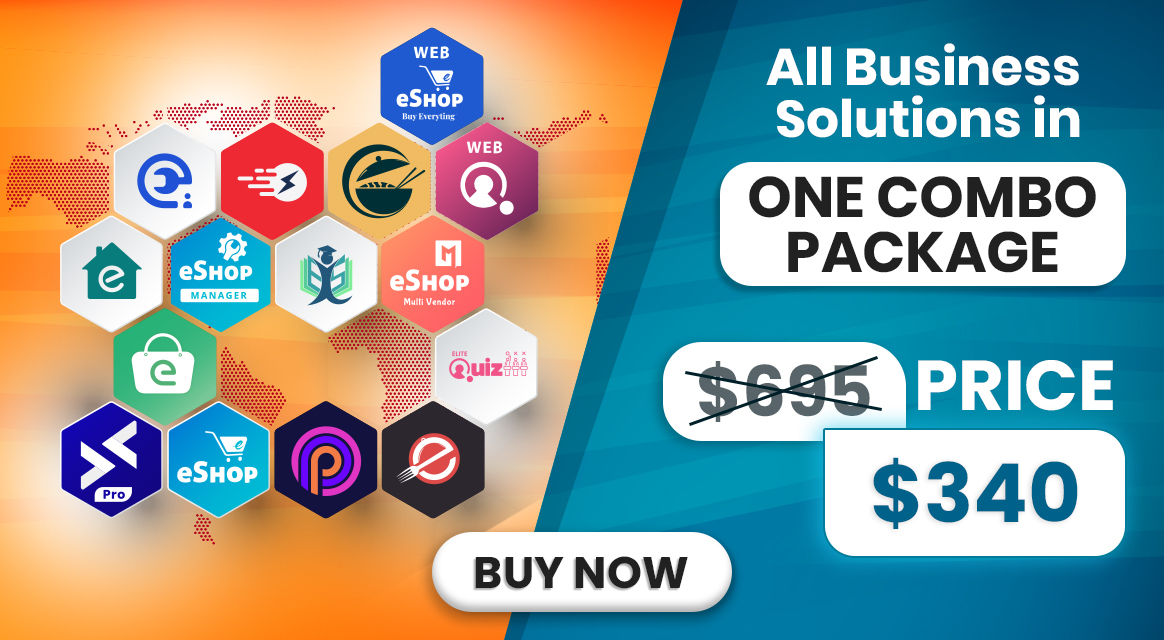
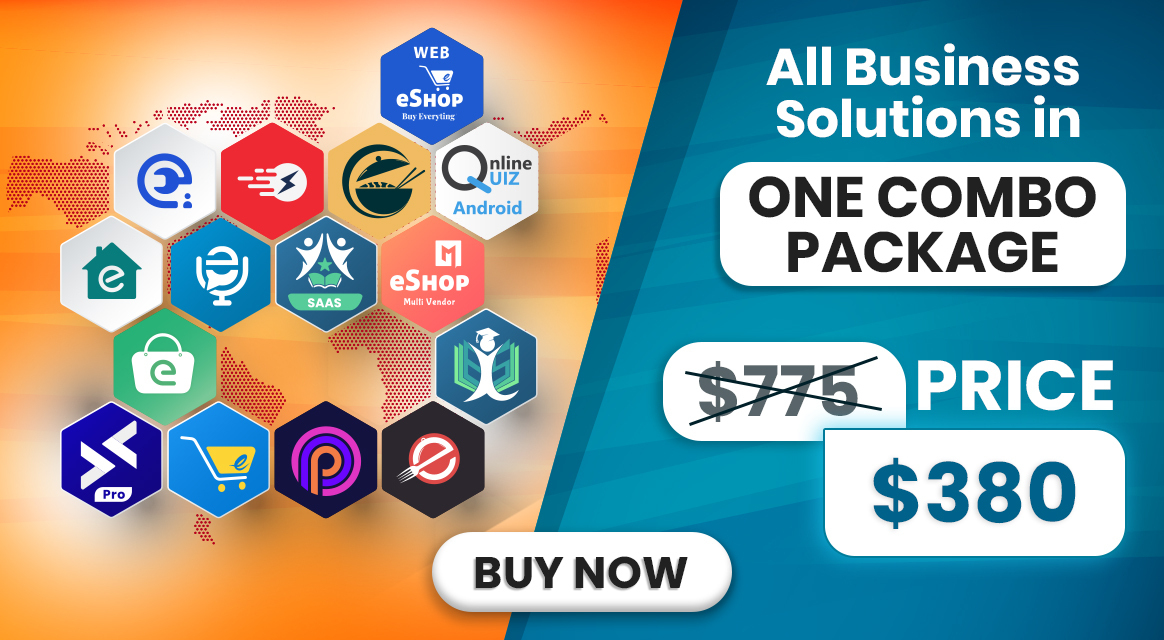
elite remove from sale

diff --git a/src/Components/Bundles.jsx b/src/Components/Bundles.jsx
@@ -122,7 +122,8 @@ const Bundles = () => {
             cutPrice: "$158",
             link: "https://1.envato.market/OryZ1P",
             backColor: "#BBE0CA",
-            height: '108px'
+            // height: '108px'
+            height: '160px'
         },
         // {
         //     id: 3,
@@ -193,7 +194,8 @@ const Bundles = () => {
             cutPrice: "$118",
             link: "https://1.envato.market/jrJ4nZ",
             backColor: "#FFE8B7",
-            height: '108px'
+            // height: '108px'
+            height: '160px'
         },
         // {
         //     id: 10,
@@ -218,30 +220,30 @@ const Bundles = () => {
         //     backColor: "#FFDDCA",
         //     height: '108px'
         // },
-        {
-            id: 11,
-            icon1: elite1,
-            icon2: elite2,
-            icon3: "",
-            icon4: "",
-            webImg: eliteWeb,
-            appImg: eliteApp,
-            title: "Elite Quiz Bundle",
-            p1Name: "Elite Quiz app",
-            p1Price: "$59",
-            p2Name: "Elite Quiz web",
-            p2Price: "$29",
-            p3Name: "",
-            p3Price: "",
-            p4Name: "",
-            p4Price: "",
-            salePrice: "$43",
-            cutPrice: "$88",
-            link: "https://1.envato.market/nLWvR9",
-            backColor: "#D3E5FF",
-            // height: '160px',
-            height: '108px'
-        },
+        // {
+        //     id: 11,
+        //     icon1: elite1,
+        //     icon2: elite2,
+        //     icon3: "",
+        //     icon4: "",
+        //     webImg: eliteWeb,
+        //     appImg: eliteApp,
+        //     title: "Elite Quiz Bundle",
+        //     p1Name: "Elite Quiz app",
+        //     p1Price: "$59",
+        //     p2Name: "Elite Quiz web",
+        //     p2Price: "$29",
+        //     p3Name: "",
+        //     p3Price: "",
+        //     p4Name: "",
+        //     p4Price: "",
+        //     salePrice: "$43",
+        //     cutPrice: "$88",
+        //     link: "https://1.envato.market/nLWvR9",
+        //     backColor: "#D3E5FF",
+        //     // height: '160px',
+        //     height: '108px'
+        // },
         // {
         //     id: 9,
         //     icon1: ecart1,
@@ -286,8 +288,7 @@ const Bundles = () => {
             cutPrice: "$107",
             link: "https://1.envato.market/Qy2XJ6",
             backColor: "#BBF7FF",
-            // height: '160px',
-            height: '260px'
+            height: '160px',
         },
         // {
         //     id: 6,

diff --git a/public/Css/style.css b/public/Css/style.css
@@ -111,7 +111,7 @@ header {
     margin-top: 150px;
 }
 
-.megaSaleMt{
+.megaSaleMt {
     margin-top: 14px;
 }
 
@@ -258,12 +258,12 @@ header {
     animation: saleTop 5s infinite linear;
 }
 
-.megaSale .saleRightDiv .saleImg img{
+.megaSale .saleRightDiv .saleImg img {
     width: 320px;
 }
 
 @media screen and (max-width: 575px) {
-    .megaSale .saleRightDiv .saleImg img{
+    .megaSale .saleRightDiv .saleImg img {
         width: 280px;
     }
 }
@@ -390,7 +390,7 @@ header {
     transition: all 0.3s;
 }
 
-#solution .card .price:hover{
+#solution .card .price:hover {
     background-color: #26b176;
 }
 
@@ -401,7 +401,7 @@ header {
     transition: color 0.3s
 }
 
-#solution .card .price:hover .cuttedPrice{
+#solution .card .price:hover .cuttedPrice {
     color: #5d4b4b;
 }
 
@@ -416,6 +416,21 @@ header {
     padding: 2px;
     text-align: center;
     border-radius: 8px;
+}
+
+@media screen and (min-width: 1200px) {
+
+    #solution .commonBorder {
+        margin-left: 150px;
+        position: relative;
+        left: -30px;
+    }
+}
+@media screen and (min-width: 576px) and (max-width:991px){
+
+    #solution .commonBorder {
+        margin-left: 92px;
+    }
 }
 
 #solution .solutionBtn {
@@ -812,7 +827,7 @@ header {
     position: relative;
 }
 
-#testimonials .commonHeadline{
+#testimonials .commonHeadline {
     font-size: 45px;
 }
 

diff --git a/src/Components/MegaSale.jsx b/src/Components/MegaSale.jsx
@@ -24,7 +24,7 @@ const MegaSale = () => {
                                 <span className='offerShapeText'>50% <br /> OFF</span>
                             </span> */}
                             <span className="saleHeadline midLineSaleText">Sale</span>
-                            <span className="desc">Experience More with Our Exclusive Year-End-Flash-Sale <span> App & Website Offer!</span></span>
+                            <span className="desc">Experience More with Our Exclusive Steals Of The Week Sale <span> App & Website Offer!</span></span>
 
                         </div>
                     </div>

diff --git a/src/Components/Solution.jsx b/src/Components/Solution.jsx
@@ -35,13 +35,13 @@ const Solution = () => {
             img: eDemand,
             link: "https://1.envato.market/KjKLxn"
         },
-        {
-            id: 2,
-            title: "Elite Quiz App",
-            desc: "Trivia quiz game",
-            img: elite,
-            link: 'https://1.envato.market/LXaGzo'
-        },
+        // {
+        //     id: 2,
+        //     title: "Elite Quiz App",
+        //     desc: "Trivia quiz game",
+        //     img: elite,
+        //     link: 'https://1.envato.market/LXaGzo'
+        // },
         {
             id: 3,
             title: "eShop Multi-vendor",
